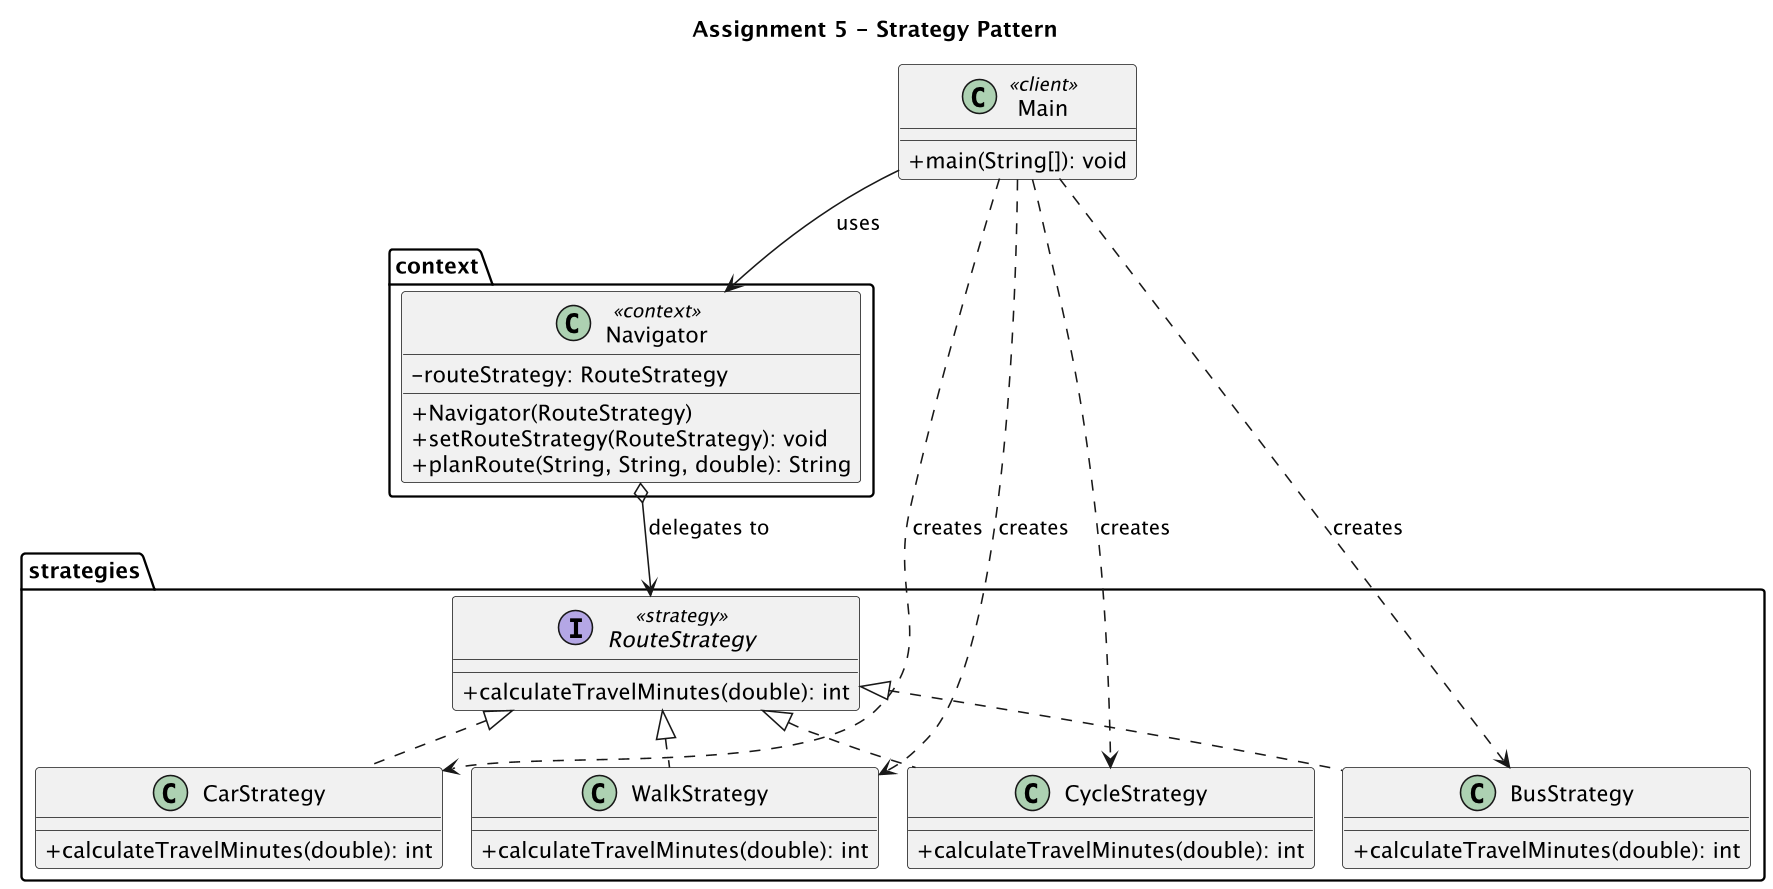
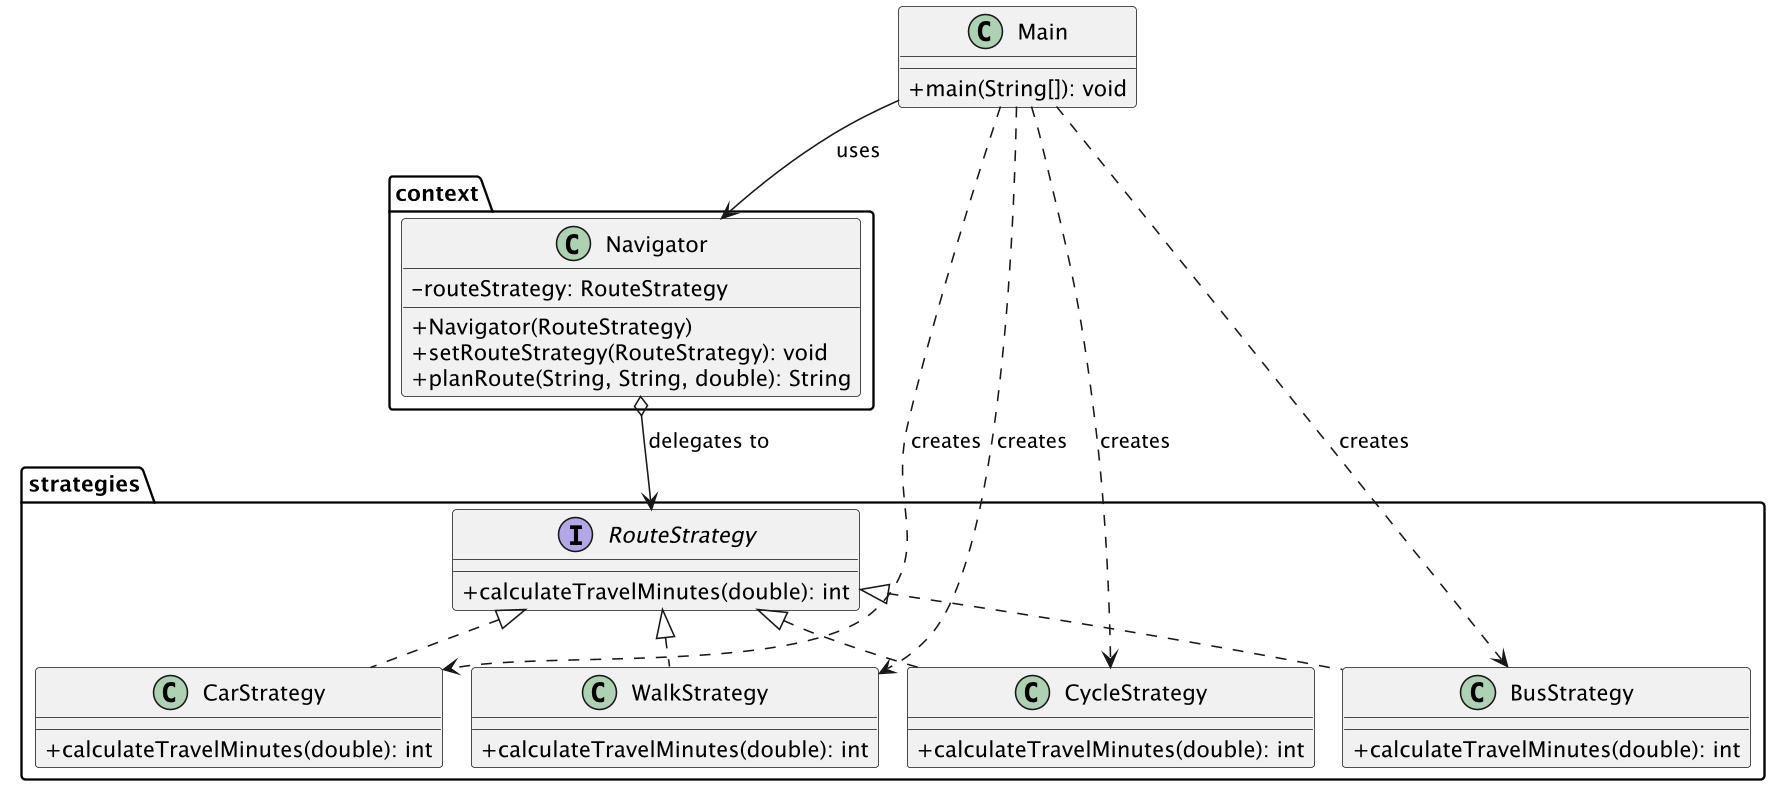
keep only what the assignment asks for

diff --git a/src/navigation/Main.java b/src/navigation/Main.java
@@ -11,24 +11,19 @@ public class Main {
         Navigator navigator = new Navigator(new CarStrategy());
 
         printTitle("1. By car");
-        printBothTrips(navigator);
+        System.out.println(navigator.planRoute("Dormitory", "AITU", 1.5));
 
         navigator.setRouteStrategy(new WalkStrategy());
         printTitle("2. On foot");
-        printBothTrips(navigator);
+        System.out.println(navigator.planRoute("Dormitory", "AITU", 1.5));
 
         navigator.setRouteStrategy(new CycleStrategy());
         printTitle("3. By bicycle");
-        printBothTrips(navigator);
+        System.out.println(navigator.planRoute("Dormitory", "AITU", 1.5));
 
         navigator.setRouteStrategy(new BusStrategy());
         printTitle("4. By bus");
-        printBothTrips(navigator);
-    }
-
-    private static void printBothTrips(Navigator navigator) {
         System.out.println(navigator.planRoute("Dormitory", "AITU", 1.5));
-        System.out.println(navigator.planRoute("Khan Shatyr", "AITU", 7.0));
     }
 
     private static void printTitle(String title) {

diff --git a/docs/REPORT.md b/docs/REPORT.md
@@ -20,26 +20,6 @@ for each way of travelling:
 | `CycleStrategy` | cycling at 15 km/h, plus 2 minutes to lock the bike |
 | `BusStrategy` | riding at 25 km/h, plus 8 minutes of waiting at the stop |
 
-`Main` is the client. It creates one navigator and switches its strategy at runtime. Output:
-
-```
-=== 1. By car ===
-Dormitory -> AITU (1.5 km): 12 min
-Khan Shatyr -> AITU (7.0 km): 21 min
-
-=== 2. On foot ===
-Dormitory -> AITU (1.5 km): 18 min
-Khan Shatyr -> AITU (7.0 km): 84 min
-
-=== 3. By bicycle ===
-Dormitory -> AITU (1.5 km): 8 min
-Khan Shatyr -> AITU (7.0 km): 30 min
-
-=== 4. By bus ===
-Dormitory -> AITU (1.5 km): 12 min
-Khan Shatyr -> AITU (7.0 km): 25 min
-```
-
 ## 2. UML class diagram
 
 ![Class diagram](https://raw.githubusercontent.com/Collector119/asik-aitu-sdp5/main/docs/class-diagram.png)
@@ -147,7 +127,7 @@ The commit creates one new class and adds lines only to the client:
 ```java
 navigator.setRouteStrategy(new BusStrategy());
 printTitle("4. By bus");
-printBothTrips(navigator);
+System.out.println(navigator.planRoute("Dormitory", "AITU", 1.5));
 ```
 
 `Navigator`, `RouteStrategy` and the other three strategies are not in the commit. With the

diff --git a/README.md b/README.md
@@ -4,19 +4,6 @@ Course: ShP-2216 Software Design Patterns (OP 6B06102)
 Astana IT University, group SE-2530
 Java 17
 
-## What the program does
-
-A route planning example (Option A). `Navigator` is the context. It estimates the travel time of a
-trip with the strategy it holds, and the strategy can be changed at runtime:
-
-```java
-Navigator navigator = new Navigator(new CarStrategy());
-navigator.planRoute("Dormitory", "AITU", 1.5);
-
-navigator.setRouteStrategy(new WalkStrategy());
-navigator.planRoute("Dormitory", "AITU", 1.5);
-```
-
 ## Folder structure
 
 ```
@@ -42,8 +29,6 @@ docs/
 javac --release 17 -d out $(find src -name '*.java')
 java -cp out navigation.Main
 ```
-
-In IntelliJ IDEA: open the folder, mark `src` as Sources Root, then run `Main`.
 
 ## How to add a new strategy
 
